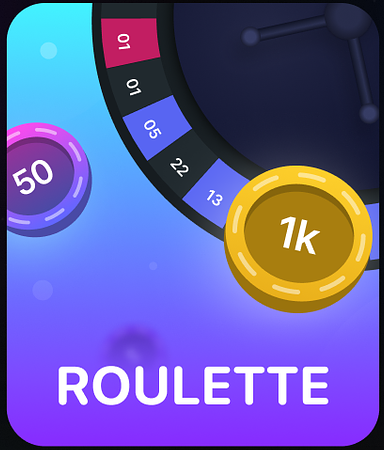
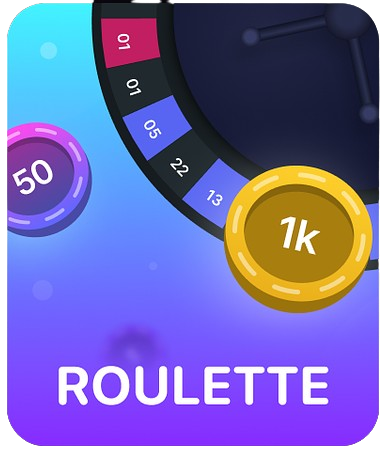
Game Thumbnail Styles

diff --git a/client/src/Components/GameThumbnail/GameThumbnail.scss b/client/src/Components/GameThumbnail/GameThumbnail.scss
@@ -2,22 +2,18 @@
 
 .game-wrapper {
 text-align: center;
-  a {
-    text-align: center;
-    position: absolute;
-    top:75%;
-    left: 35%;
-  }
+  // a {
+  //   text-align: center;
+  //   position: absolute;
+  //   top:75%;
+  //   left: 35%;
+  // }
   button {
-    margin: 10px 0;
-    width: 100px;
-    background-color: #19b14e;
     border: none;
-    font-weight: bold;
-    letter-spacing: 1px;
+
 
     &:hover {
-      background-color: #15883e;
+      background: transparent;
     }
   }
 }
@@ -25,22 +21,17 @@ text-align: center;
 .game-thumbnail-wrapper {
   width: 230px;
   height: 300px;
+  border-radius: 30px;
   position: relative;
   transition: background-color 0.3s ease;
+  cursor: pointer;
   
   img{
     width: 100%;
     height: 100%;
   }
-    // &:hover {
-    //   ::before {
-    //     content: '';
-    //     position: absolute;
-    //     width: 100%;
-    //     height: 100%;
-    //     background-color: $primary-dark-grey;
-    //     z-index: 1;
-    //     opacity: 0.8;
-    //   }
-    // }
+    &:hover {
+      transition: box-shadow 0.5s ease;
+      box-shadow: -1px 3px 30px 4px rgba(255,255,255,1);
+    }
 }

diff --git a/client/src/Components/GameThumbnail/GameThumbnail.jsx b/client/src/Components/GameThumbnail/GameThumbnail.jsx
@@ -26,14 +26,14 @@ const GameThumbnail = ({ data }) => {
   }
   return (
     <div className='game-wrapper'>
+      <div onClick={handleClick}>
+          {/* <Button className='play-btn'> */}
       <div className='game-thumbnail-wrapper'>
           <img src={data.image} alt='game-image'/>
-      <div onClick={handleClick}>
-          <Button className='play-btn'>
-            Play
-          </Button>
+            
         {showLoginModal && <LoginForm/>}
       </div>
+          {/* </Button> */}
       </div>
     </div>
   );
